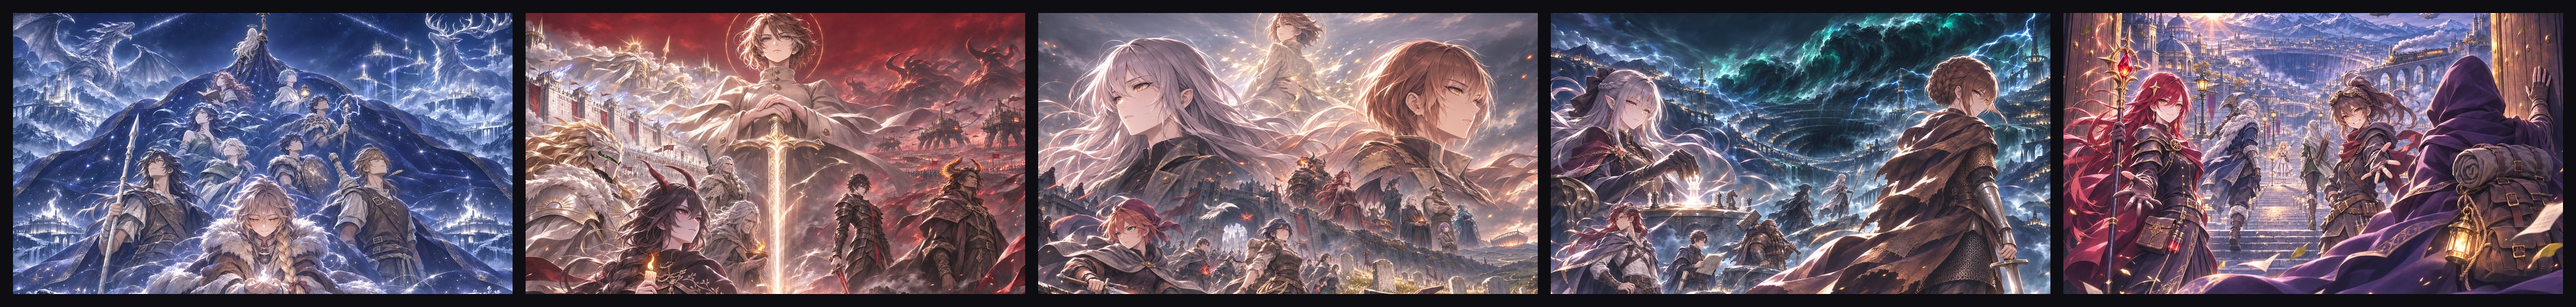
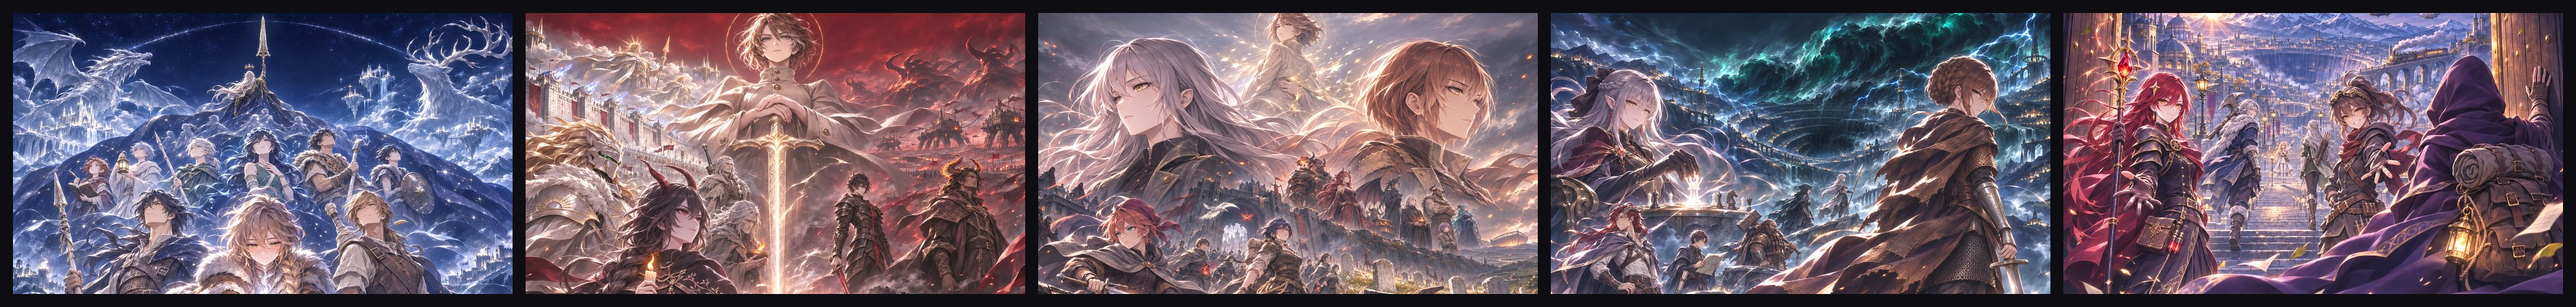
11-26 风月封面定稿：独立复查第二版过，月银纪背景和 4:3 重出（金冠、枪尖整支）

Changed region(s): [[0.0, 0.0297, 0.2174, 0.9788]]

diff --git a/out/发布卡_风月_四纪/封面/说明.md b/out/发布卡_风月_四纪/封面/说明.md
@@ -133,3 +133,20 @@
 - 月银纪传奇的处理是 C 那种：下实上虚。这一稿实际画出来上面几位也是实体，只是越往上越小、越淡。草图上方那两道弧画成了从枪尖往两边扫下去的星光线。
 - 山铜纪的薇瑟兰画得比双王小，在两人头后偏上；回眸的意思出来了一半，侧着身，没有完全回头。七魔神将是按文字画的，没给参考图。
 - 此刻封面主角推门那条胳膊在前景里偏长，透视放大以后看着还算顺。
+
+## 独立复查（第二版，11-26，另一位先看图后对结论）
+
+十五张一张一张按原尺寸看过，可疑处裁出来放大，逐张记在 `独立复查_第二版.tsv`。十三张过，两张判得跟上面不一样：
+
+- 月银纪背景、月银纪横版 4:3（上面记的是背景第 1 稿过）：两张里凯尔萨斯头上都是一圈平的光环，像天使光环，不是封面那顶带尖的细金冠，跟封面第 1、2 稿被打回的是同一处；背景另把枪尖切出画框，顶边只露剑格一截，像个小十字。别的（十个人、手、兵器、种族记号）都对。判要重画，两张一起出。
+
+判得一样、另记一笔的小事（都不算毛病）：
+- 巴尔缇娜在山铜纪、前传六张里放大看都是短尖耳，跟 s5b、v3 立绘的耳朵一样大；山铜纪封面那粒红点偏额中，立绘在额角一边。
+- 纷争纪费格背上的剑比资料小得多；火角魔族不像赛弗，说明里本来只写“一位火角魔族”。
+- 山铜纪封面方舟船头一根带横档的桅杆，放大六倍像小十字，原尺寸约十像素。
+- 此刻飘的纸页和墙上告示是读不出的鬼画符；菲奥娜站在台阶高处，不在台阶底下。
+- 凯恩在月银纪背景、4:3 里皮色偏深，对过他的立绘本来就偏暖，不算。
+
+## 第二版复查以后（11-26）：只重出月银纪背景
+
+复查查出月银纪背景上凯尔萨斯头上是一圈平的光环，枪尖还被画框切掉了。提示词写死“带尖的实心金冠，不是光环；整支剑枪在画里，枪尖上方留一块天”，出了两稿，第 2 稿过（`wide3_moon_d_v2`）：冠一圈尖、枪尖完整。背景从顶上裁（top=0），枪尖在画里；4:3 从新背景裁，x0=85。旧的两张挪进 `备选_11-26第二版/复查前_月银纪背景/`。别的十三张没动。已重拼 `五张背景并排.jpg`。
